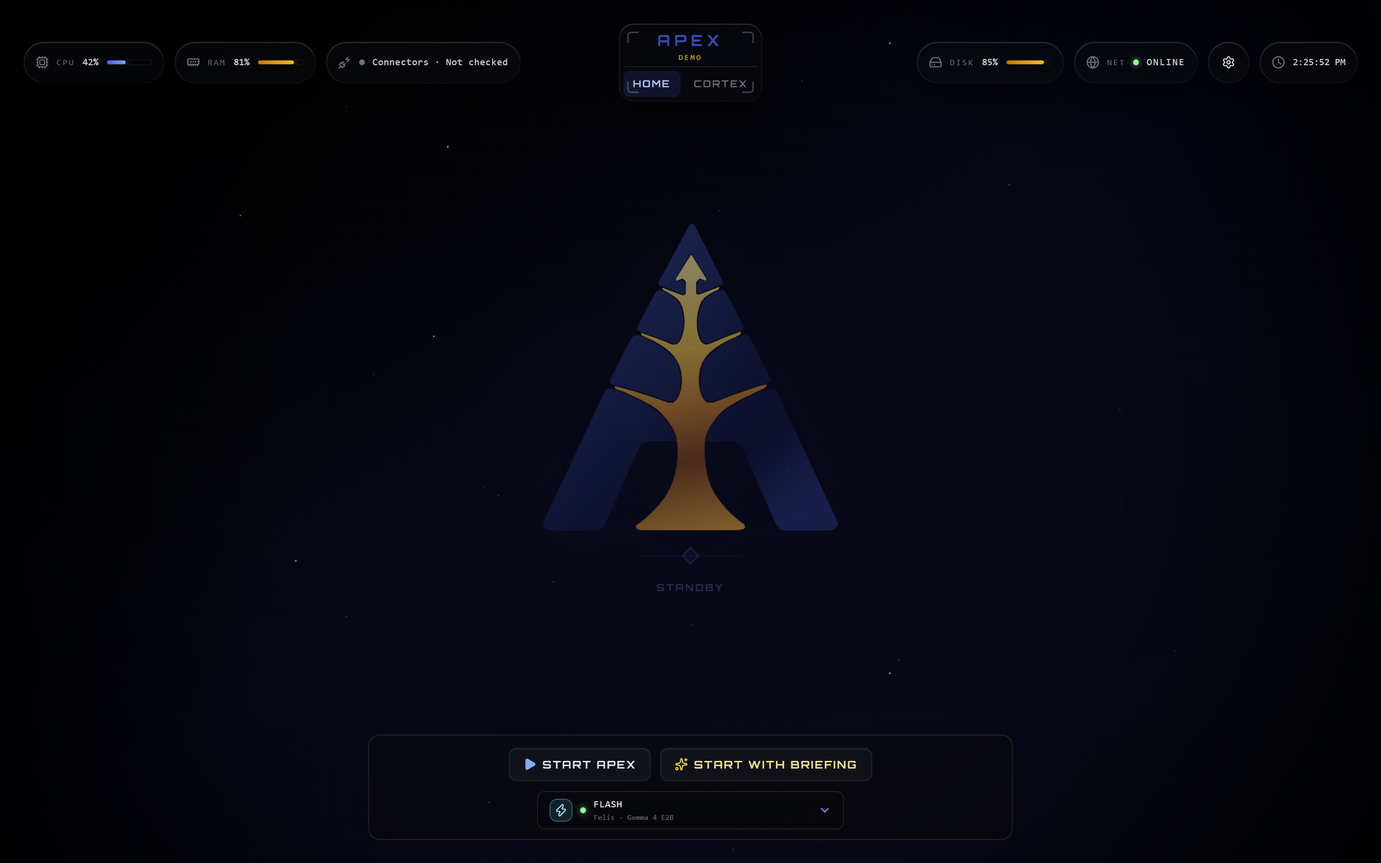
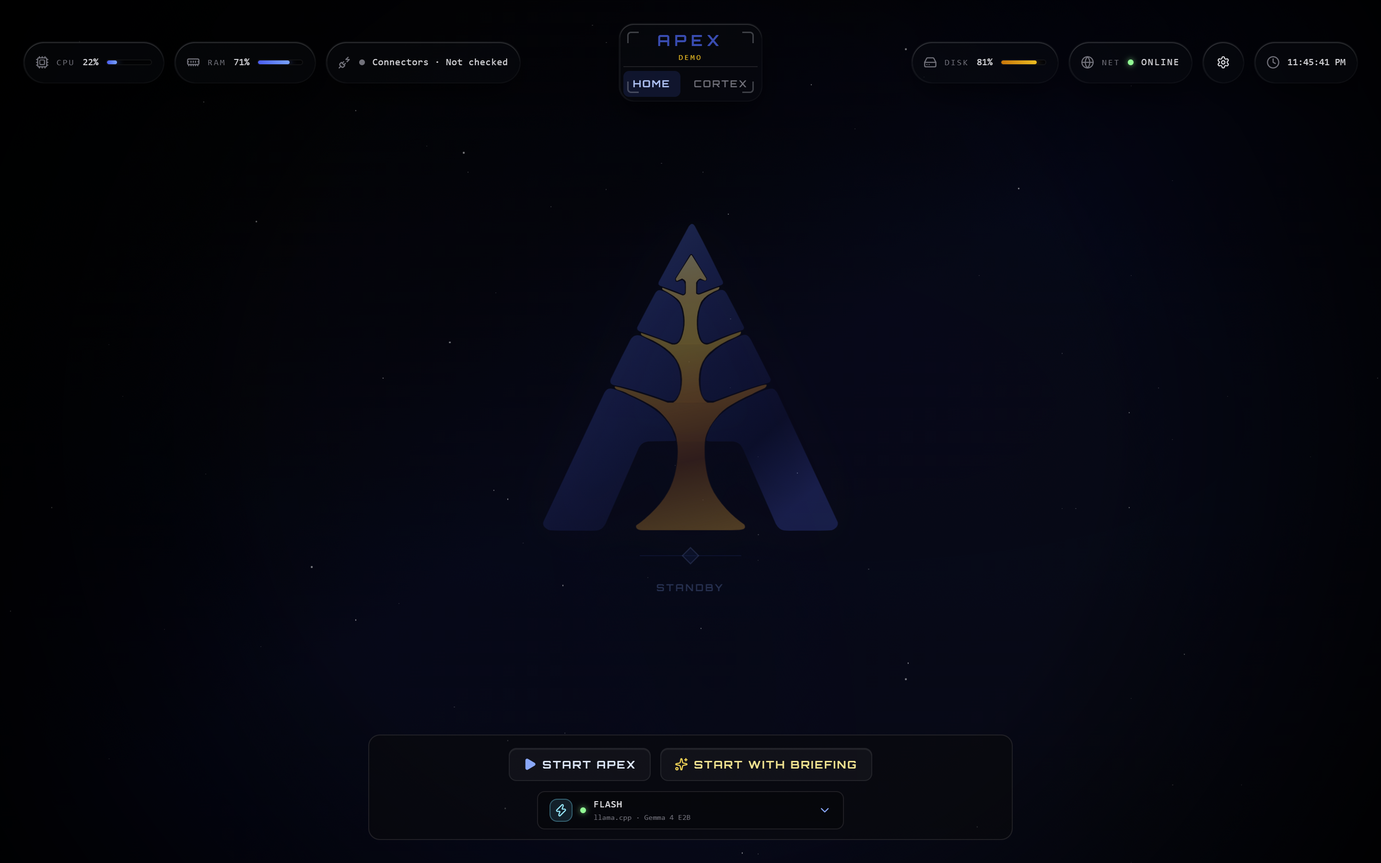
docs: reconcile documentation, changelog, and assets for v2.0.0-beta.2 release (#430)
Reconcile documentation, update HUD screenshots, finalize the roadmap and changelog, and bump the project version to 2.0.0b2 for the v2.0.0-beta.2 release.

diff --git a/tests/test_documentation.py b/tests/test_documentation.py
@@ -8,6 +8,7 @@ from scripts.check_docs import (
     check_agent_profiles,
     check_api_contract_version,
     check_default_briefing_provider,
+    check_frontend_owner_names,
     check_links,
     check_schema_versions,
     duplicate_route_headings,
@@ -147,6 +148,29 @@ class DocumentationCheckerTests(unittest.TestCase):
         reasons = {issue.reason for issue in issues}
         self.assertIn("obsolete Ollama briefing provider is documented", reasons)
         self.assertIn("briefing diagram omits a supported synthesis path", reasons)
+
+    def test_frontend_owner_names_reports_missing_cortex_runs(self) -> None:
+        root = Path("virtual-frontend").resolve()
+        source = root / "frontend" / "README.md"
+        contents = {source: "| `useCortex` | Browser conversation |\n"}
+        issues = check_frontend_owner_names(root, contents=contents)
+
+        self.assertEqual(len(issues), 1)
+        self.assertEqual(issues[0].target, "useCortexRuns")
+        self.assertIn("current Cortex runs owner is missing", issues[0].reason)
+
+    def test_frontend_owner_names_accepts_valid_current_owners(self) -> None:
+        root = Path("virtual-frontend").resolve()
+        source = root / "frontend" / "README.md"
+        contents = {
+            source: (
+                "| `useCortex` | Browser conversation |\n"
+                "| `useCortexRuns` | Recent runs |\n"
+            )
+        }
+        issues = check_frontend_owner_names(root, contents=contents)
+        self.assertEqual(issues, [])
+
 
 if __name__ == "__main__":
     unittest.main()

diff --git a/scripts/check_docs.py b/scripts/check_docs.py
@@ -417,10 +417,17 @@ def check_release_version(root: Path) -> list[DocumentationIssue]:
     ]
 
 
-def check_frontend_owner_names(root: Path) -> list[DocumentationIssue]:
+def check_frontend_owner_names(
+    root: Path,
+    contents: Mapping[Path, str] | None = None,
+) -> list[DocumentationIssue]:
     """Keep the frontend state-ownership table on current hook names."""
     frontend_readme = root / "frontend" / "README.md"
-    text = frontend_readme.read_text(encoding="utf-8")
+    text = (
+        contents.get(frontend_readme, "")
+        if contents is not None
+        else frontend_readme.read_text(encoding="utf-8")
+    )
     issues: list[DocumentationIssue] = []
     if "useApexAssistant" in text:
         issues.append(
@@ -440,7 +447,17 @@ def check_frontend_owner_names(root: Path) -> list[DocumentationIssue]:
                 "current Cortex owner is missing",
             )
         )
+    if "useCortexRuns" not in text:
+        issues.append(
+            DocumentationIssue(
+                frontend_readme,
+                1,
+                "useCortexRuns",
+                "current Cortex runs owner is missing",
+            )
+        )
     return issues
+
 
 
 PROVIDER_DISPLAY_NAMES: dict[str, str] = {

diff --git a/CHANGELOG.md b/CHANGELOG.md
@@ -2,6 +2,63 @@
 
 ---
 
+## v2.0.0-beta.2 - Cortex: Bounded Runs & Live Activity
+
+**Released:** September 5, 2026
+
+This release consolidates cloud and local models under a single Apex Agent, introduces bounded run execution with APEX-enforced limits, adds real-time Server-Sent Events streaming, and provides an Activity inspector in the HUD. Execution history is stored in a dedicated SQLite run ledger that records token metrics, step counters, stop reasons, and OpenTelemetry trace references without mixing run metadata into conversation storage. OpenTelemetry distributed tracing follows GenAI semantic conventions with zero-content privacy defaults, and new CLI commands allow managing and inspecting runs headlessly. Composer layouts now include dynamic scroll-fade indicators, and Grok and legacy sandbox providers have been retired.
+
+---
+
+### What's New
+
+- Consolidated the Agent roster from Panthera and Felis into a single **Apex Agent**. Model selection in the catalog now determines whether a request routes to a cloud API or a local llama.cpp or Ollama runtime.
+- Added bounded Cortex runs. APEX limits run duration, loop iterations, token consumption, retry counts, and cancellation, rather than relying on model self-termination alone.
+- Added a dedicated SQLite run ledger (`cortex_runs` and `cortex_run_steps`) that tracks run status, step sequences, tool executions, token metrics, stop reasons, and trace identifiers separately from conversation messages.
+- Added live Server-Sent Events (SSE) streaming for Cortex runs, publishing real-time updates for tokens, step lifecycle transitions, tool execution start and completion, and termination events.
+- Added an **Activity** tab to the Cortex Workspace to monitor active and recent runs, view step details and tool execution state, review resource counters, and cancel runs in flight.
+- Added `apex runs` CLI subcommands (`list`, `show`, `cancel`) for viewing and managing runs without opening the HUD.
+- Added failure-isolated OpenTelemetry distributed tracing conforming to GenAI semantic conventions. By default, prompt content and completions are excluded from span attributes to ensure zero-content privacy.
+- Added dynamic scroll fade masks to the HUD composer and scroll containers, fading card text only when additional content remains below the fold.
+- Retired Grok, SpaceXAI, and legacy sandbox/free-tier providers.
+
+### Architecture Changes
+
+- Unified model routing under `core/agent/loop.py` and `core/agent/model_catalog.py`, replacing multi-agent specs with single-agent configuration.
+- Added `core/runs/` (`models.py`, `service.py`, `store.py`, `coordinator.py`, `events.py`) to manage run persistence, concurrency gating, step lifecycle, and live SSE event broadcasting.
+- Implemented native provider streaming across Gemini (`google-genai`), OpenRouter (`openai`), Ollama, and llama.cpp runtimes.
+- Added `core/tracing/` (`service.py`, `spans.py`) for OpenTelemetry tracer initialization, span generation, and error-handling isolation.
+- Settings schema version bumped to `17` with unified `ask_apex.apex` settings.
+
+### API Changes
+
+- Added `/api/v1/cortex/runs` endpoints:
+  - `GET /api/v1/cortex/runs`: List past and active runs with optional status and pagination filters.
+  - `GET /api/v1/cortex/runs/{run_id}`: Retrieve full execution details, step history, and tool records for a run.
+  - `GET /api/v1/cortex/runs/{run_id}/events`: Stream real-time SSE execution events for an active run.
+  - `POST /api/v1/cortex/runs/{run_id}/cancel`: Cancel an active run in progress.
+- `POST /api/v1/cortex/query` now supports run coordinator execution, streaming response delegation, and run ID tracking.
+- Replaced `/api/v1/agents` multi-agent payload with singular Apex Agent availability and model catalog.
+- Settings schema updated to version `17`.
+
+### Frontend Changes
+
+- Added `CortexActivity.tsx` and `useCortexRuns.ts` for real-time run telemetry inspection, active step tracking, and cancellation controls.
+- Added `CortexActiveRunStrip.tsx` to display in-thread run status and streaming progress.
+- Added `ScrollFadeContainer.tsx` and `useScrollFadeMask.ts` for dynamic scroll-fade masking.
+- Simplified `ModelSelector.tsx`, `HomeModelSelector.tsx`, and `SettingsPanel.tsx` to reflect the singular Apex Agent model architecture.
+- Aligned Cortex visual theme tokens and run status colors with the APEX design system.
+
+### Documentation Updates
+
+- Documented run limits, timeout settings, and OpenTelemetry configuration options in `.env.example` and `docs/configuration.md`.
+- Documented bounded run architecture, SSE event contracts, and zero-content tracing guarantees in `docs/architecture.md`, `docs/privacy.md`, and `docs/api.md`.
+- Added `apex runs` CLI usage to `docs/cli.md`.
+- Recorded architectural decisions for SSE streaming and OpenTelemetry GenAI tracing in `docs/decisions.md`.
+- Refreshed interface screenshots in `docs/assets/` for Cortex, Home, and Standby views.
+
+---
+
 ## v2.0.0-beta.1 - Cortex: Persistent Context, World Model & Retrieval
 
 **Released:** August 20, 2026

diff --git a/docs/roadmap.md b/docs/roadmap.md
@@ -9,10 +9,10 @@
 ## Current Focus
 
 **Current Phase:** [Phase V: APEX 2.0 Beta](#phase-v-apex-20-beta)
-**Active Milestone:** [v2.0.0-beta.2 - Cortex: Bounded Runs & Live Activity](#v200-beta2---cortex-bounded-runs--live-activity)
+**Active Milestone:** [v2.0.0-beta.3 - Trusted Context & Review](#v200-beta3---trusted-context--review)
 **Current Direction:** [APEX 2.0 Direction](#apex-20-direction)
 
-**Next Milestone:** [v2.0.0-beta.3 - Trusted Context & Review](#v200-beta3---trusted-context--review)
+**Next Milestone:** [v2.0.0-beta.4 - External Activity Inbox](#v200-beta4---external-activity-inbox)
 
 ### Navigation
 
@@ -440,34 +440,16 @@ Establish the APEX 2.0 foundation with persistent conversations, personal contex
 
 ## v2.0.0-beta.2 - Cortex: Bounded Runs & Live Activity
 
-**Status:** In Progress
+**Status:** Complete
 
 **Objective:**
-Let Apex Agent carry an APEX request through several visible, controlled steps without turning Cortex into a general autonomous Agent platform.
-
-A run can retrieve relevant context, reason, call approved tools, propose or complete allowed actions, check the result, and stop when it has enough evidence to finish.
-
-APEX, rather than the model alone, should set the limits for iterations, elapsed time, token use, retries, cancellation, and failure handling.
-
-Cortex should gain an APEX-owned streaming path for response text, tool activity, action proposals, runtime measurements, completion, and errors. The assistant-ui frontend can display that stream without owning the Cortex runtime.
-
-APEX should keep a durable run record with the selected model, provider, runtime, limits, counters, stop reason, completion evidence, and trace reference. Message text should remain in conversation storage rather than being copied into the run ledger.
-
-Detailed tracing should use standard OpenTelemetry output and may be viewed through an optional compatible tool such as Phoenix. APEX should not build its own tracing or evaluation platform.
-
-The Cortex Activity view should show active and recent runs, tool and action activity, cancellation controls, model state, local inference state, context use, and the resource limits that affect APEX. It should reuse existing runtime and operating-system information rather than becoming a full process monitor.
-
-Provider-supported generation controls, structured output, usage reporting, and runtime measurements should be capability-aware. APEX should not pretend every model supports the same settings or reports the same data.
-
-The CLI should be able to start and follow a run, cancel it, inspect completion evidence, and reference the related trace.
-
-The new measurements may also be used to tune existing llama.cpp settings for the current hardware. This should remain local runtime calibration rather than becoming a general benchmarking platform.
+Unify models and runtimes under a single Apex Agent, and introduce bounded execution with APEX-enforced limits, a durable run ledger, live event streaming, an in-HUD activity inspector, OpenTelemetry GenAI tracing, and CLI run controls.
 
 ---
 
 ## v2.0.0-beta.3 - Trusted Context & Review
 
-**Status:** Planned
+**Status:** In Progress
 
 **Objective:**
 Make the context introduced in beta.1 easier to trust, correct, and understand before APEX begins accepting larger amounts of information from outside tools.
@@ -796,4 +778,4 @@ The local-first model remains the default. APEX should continue to work without 
 APEX is currently in **Phase V: APEX 2.0 Beta**.
 
 **Active milestone:**
-[v2.0.0-beta.2 - Cortex: Bounded Runs & Live Activity](#v200-beta2---cortex-bounded-runs--live-activity)
+[v2.0.0-beta.3 - Trusted Context & Review](#v200-beta3---trusted-context--review)

diff --git a/docs/architecture.md b/docs/architecture.md
@@ -34,6 +34,19 @@ Write-capable tools create approval-gated action proposals. New proposals use `a
 
 APEX permits one local inference execution across Ollama and llama.cpp. The coordinator validates reachability, resident models, installed aliases, and resource gates before loading. The selected model’s context and reasoning controls apply on the next relevant request; unloading remains provider-neutral.
 
+## Bounded run coordination and live activity
+
+Cortex runs execute asynchronously through the `CortexRunCoordinator`. A run carries one request through bounded model turns, tool execution, and action proposals:
+
+- **Admission and concurrency:** A thread pool bounds active runs (`max_concurrent_runs`, default 2). The coordinator enforces one active run per conversation, returning `409` on overlap and `429` on pool saturation. Identical turn requests matching an existing `agent_message_id` return the existing run without consuming a slot.
+- **Durable run ledger:** SQLite records run metadata in the `cortex_runs` table partitioned by `production` and `sandbox`. Records capture limits, token totals, turn/tool counts, timings, stop reasons, and completion evidence. Message text stays in conversation persistence rather than being duplicated in the ledger. On startup, unfinished runs are safely finalized as `interrupted`.
+- **Live streaming:** Process-local Server-Sent Events stream live status, deltas, tool activity, and runtime measurements. Streams support reconnect replay from bounded in-memory buffers; disconnecting a client does not cancel the underlying run.
+- **Cooperative cancellation:** Active runs poll for cancellation at turn and tool boundaries, writing a cancellation marker and finalizing as `cancelled`.
+
+## Distributed tracing
+
+When configured, APEX exports failure-isolated distributed traces using OpenTelemetry GenAI semantic conventions. Tracing covers the root run span (`invoke_agent`), model provider calls, and tool execution. Spans record model identifiers, tokens, counters, and timings, while preserving a zero-content privacy guarantee that omits prompt text, answers, and raw exceptions.
+
 ## Briefing routes
 
 Interactive selection never changes briefing execution. Focused uses OpenRouter DeepSeek V4 Flash with High reasoning, Flash uses the fixed Gemma E2B llama.cpp route at 16K with reasoning disabled, and Structured is deterministic. Fallback is Focused, Flash, then Structured.

diff --git a/docs/agent-guidance/frontend.md b/docs/agent-guidance/frontend.md
@@ -1,7 +1,7 @@
 # Frontend Engineering Guidance
 
 - Keep React components focused on presentation and interaction; place reusable state transitions, parsing, and effects in established hooks or utilities.
-- Use `useApexData()` for boot configuration and reminders. Use focused hooks for their respective concerns instead of adding to `useApexData()`: `useAppActivation()` for standby/activated lifecycle, `usePreflight()` for preflight warning/blocker dialog flow, `useTelemetrySnapshot()` for on-demand telemetry refresh, `useBriefingPipeline()` for trigger/status polling and briefing/digest state, `useCortex()` for Agent status, verification, polling, and local-model lifecycle, `ApexAssistantRuntime` for conversation/thread state and one-turn submission, `useActions()` for Cortex action list, audit detail, and versioned controls, `useToolCatalog()` for catalog/profile/selection state, and `useToolPreflight()` for next-request token estimates.
+- Use `useApexData()` for boot configuration and reminders. Use focused hooks for their respective concerns instead of adding to `useApexData()`: `useAppActivation()` for standby/activated lifecycle, `usePreflight()` for preflight warning/blocker dialog flow, `useTelemetrySnapshot()` for on-demand telemetry refresh, `useBriefingPipeline()` for trigger/status polling and briefing/digest state, `useCortex()` for Agent status, verification, polling, and local-model lifecycle, `useCortexRuns()` for recent runs, active-run polling, and cancellation, `ApexAssistantRuntime` for conversation/thread state and one-turn submission, `useActions()` for Cortex action list, audit detail, and versioned controls, `useToolCatalog()` for catalog/profile/selection state, and `useToolPreflight()` for next-request token estimates.
 - Preserve deliberately independent data flows such as `useMarketData()` when their lifecycle and polling cadence are separate from the briefing pipeline. Do not force unrelated state into `useApexData()` or into a hook that owns a different concern.
 - Avoid duplicate fetch loops or competing sources of truth for the same backend resource.
 - Model loading, empty, error, disabled, demo, and stale states explicitly. Use local progress indicators when a local action is independent; use shared status when the underlying operation is global.

diff --git a/docs/decisions.md b/docs/decisions.md
@@ -198,6 +198,22 @@ Lazy Kokoro imports and warmup avoid idle memory and thread cost when it is not 
 
 **Trade-off.** The adapter needs focused conversion coverage whenever the pinned assistant-ui release changes, because its message and thread identifiers are not a stable public contract. The boundary is isolated in `frontend/src/components/ApexAssistantRuntime.tsx`. APEX does not expose assistant-ui cancellation, client-side tools, attachments, cloud storage, feedback, or automatic title generation. Empty threads are transient until their first accepted turn. Permanent deletion is an APEX-owned capability limited to archived conversations and exposed through the archived-only API route.
 
+### Stream live run activity over process-local Server-Sent Events
+
+**Decision.** Live run updates stream over process-local Server-Sent Events rather than WebSockets, polling, or database-backed message queues.
+
+**Why.** SSE provides unidirectional streaming over standard HTTP with reconnect replay through `Last-Event-ID`. In-memory ring buffers let clients reconnect after transient network glitches without writing intermediate delta events to SQLite. Client disconnections do not cancel active backend runs.
+
+**Trade-off.** Live events are process-local and lost on backend restart. Durable run state remains limited to the completed run ledger and conversation messages.
+
+### Adopt OpenTelemetry GenAI semantics without an internal tracing platform
+
+**Decision.** APEX exports distributed traces adhering to OpenTelemetry GenAI semantic conventions via standard OTLP HTTP rather than building an in-tree tracing UI or observability store.
+
+**Why.** Standard OTLP output lets operators connect standard evaluation or visualization tools (such as Arize Phoenix or OpenTelemetry collectors) when desired. Tracing is failure-isolated and has zero runtime overhead when disabled. Spans enforce a zero-content privacy guarantee that omits prompts, completions, and raw exceptions.
+
+**Trade-off.** Inspecting detailed traces requires running an external OTLP-compatible collector.
+
 ### Enforce one resident model and non-blocking admission
 
 **Decision.** APEX keeps one selected local model resident across Ollama and llama.cpp and rejects competing local execution rather than queueing it.

diff --git a/docs/configuration.md b/docs/configuration.md
@@ -34,6 +34,36 @@ Briefings are fixed routes, independent of the interactive model. Focused uses O
 
 Configure llama.cpp aliases with one preset per exposed context size. A tracked placeholder is [`docs/examples/llama-cpp-apex-local-models.preset.ini`](examples/llama-cpp-apex-local-models.preset.ini). Copy it to a machine-local path, replace GGUF placeholders, and keep that copy untracked. External launchers should use one preset at a time; managed mode uses the same aliases and resource gates.
 
+## Bounded run limits
+
+`config.json` sets execution ceilings for asynchronous Cortex runs:
+
+```json
+{
+  "cortex_runs": {
+    "max_concurrent_runs": 2,
+    "max_elapsed_seconds": 600,
+    "max_total_tokens": 128000,
+    "max_retries": 4,
+    "max_model_turns": 6,
+    "max_tool_calls": 10,
+    "event_replay_limit": 512
+  }
+}
+```
+
+`max_concurrent_runs` limits active execution slots before the API returns `429`. `event_replay_limit` sets the in-memory event buffer size per run for Server-Sent Events reconnects. The remaining fields define the immutable limit snapshot applied to each run.
+
+## OpenTelemetry GenAI tracing
+
+APEX can export distributed trace spans adhering to OpenTelemetry GenAI semantic conventions when an endpoint is configured in `.env`:
+
+- `OTEL_EXPORTER_OTLP_TRACES_ENDPOINT`: Destination URL for OTLP HTTP trace export (such as a local Arize Phoenix or OpenTelemetry collector).
+- `OTEL_EXPORTER_OTLP_TRACES_HEADERS` or `OTEL_EXPORTER_OTLP_HEADERS`: Optional comma-separated `key=value` headers.
+- `OTEL_SERVICE_NAME`: Service name attribute, defaulting to `apex`.
+
+When `OTEL_EXPORTER_OTLP_TRACES_ENDPOINT` is unset, tracing is disabled with zero runtime overhead. Trace spans include run identifiers, model names, token counts, and step durations; they never include prompt or answer text.
+
 ## Privacy and development modes
 
 Personal context is off by default for both runtimes. Sandbox mode is available only in `DEV_MODE`, uses a restricted non-personal tool allowlist, and stores conversation history in the sandbox partition. `DEMO_MODE` takes precedence for demo paths and does not contact configured providers.

diff --git a/README.md b/README.md
@@ -65,7 +65,7 @@ The HUD exposes connector health, CPU and memory use, active model state, briefi
 - **Safer model input:** Connectors produce structured results, and briefing models receive only selected facts marked as untrusted data.
 - **Three briefing modes:** Flash is the default local Gemma orientation, Focused is OpenRouter DeepSeek V4 Flash planning, and Structured is a model-free deterministic view.
 - **One local model at a time:** APEX avoids hidden local-inference queues and keeps model loading visible.
-- **Local storage:** SQLite keeps briefing history, the reminder cache and offline queue, the durable action ledger, and Cortex conversation trees with response metadata. Reloading APEX restores the active conversation branch and its per-conversation Agent/tool preferences.
+- **Local storage:** SQLite keeps briefing history, the reminder cache and offline queue, the durable action ledger, the bounded run ledger, and Cortex conversation trees with response metadata. Reloading APEX restores the active conversation branch and its per-conversation Agent/tool preferences.
 - **Visible failures:** Readiness checks, connector health, stable errors, run IDs, and preflight warnings make degraded states easier to understand.
 - **Credential isolation:** The backend receives credentials; the static server and browser receive a restricted child environment.
 
@@ -120,13 +120,14 @@ Demo mode bypasses live connectors and model calls, does not write briefing hist
 
 ## Use APEX without the HUD
 
-When the backend is already running, the included CLI can inspect APEX, run one Agent turn, generate a briefing, and review or resolve durable actions:
+When the backend is already running, the included CLI can inspect APEX, run one Agent turn, generate a briefing, inspect recent Cortex runs, and review or resolve durable actions:
 
 ```powershell
 uv run apex status
 uv run apex models
 uv run apex ask "What needs my attention?" --profile personal_ops
 uv run apex briefing --mode structured
+uv run apex runs list
 uv run apex actions list
 ```
 

diff --git a/docs/api.md b/docs/api.md
@@ -54,6 +54,11 @@ The included [`uv run apex`](cli.md) command is a thin loopback client for a foc
 | PATCH | `/api/v1/cortex/conversations/{conversation_id}` | Update one conversation |
 | DELETE | `/api/v1/cortex/conversations/{conversation_id}` | Permanently delete one archived conversation |
 | POST | `/api/v1/cortex/conversations/{conversation_id}/turns` | Run one durable Cortex turn |
+| POST | `/api/v1/cortex/conversations/{conversation_id}/runs` | Start one asynchronous bounded Cortex run |
+| GET | `/api/v1/cortex/runs` | List recent Cortex runs |
+| GET | `/api/v1/cortex/runs/{run_id}` | Read one Cortex run record |
+| POST | `/api/v1/cortex/runs/{run_id}/cancel` | Request cooperative run cancellation |
+| GET | `/api/v1/cortex/runs/{run_id}/events` | Stream live run activity as Server-Sent Events |
 | POST | `/api/v1/cortex/context/captures` | Propose a manual personal-context capture |
 | GET | `/api/v1/cortex/context` | List local personal-context records in the current partition |
 | GET | `/api/v1/cortex/context/{record_id}` | Inspect one record, its sources, history, and related records |
@@ -308,7 +313,7 @@ Archives one explicitly reviewed uncertain local row after the operator has insp
 { "id": "local:12" }
 ```
 
-## Apex Agents and local models
+## Apex Agent and local models
 
 ### GET `/api/v1/cortex/tool-catalog`
 
@@ -615,7 +620,7 @@ Cortex turns.
 `search_apex_docs` is a selected native read capability, not a public search
 endpoint. It refreshes only `README.md` and `docs/**/*.md` immediately before
 searching, then returns at most five excerpts with repository-relative source
-locations. The excerpts are untrusted tool output. Agents should cite a used
+locations. The excerpts are untrusted tool output. Apex Agent should cite a used
 excerpt as `path:Lstart-Lend`; it cannot alter system instructions or policy.
 
 ## Actions

diff --git a/docs/getting-started.md b/docs/getting-started.md
@@ -128,6 +128,7 @@ APEX can start without most provider credentials. Enable only the integrations y
 | Local models through llama.cpp | Optional external or APEX-managed llama.cpp router with model-based aliases |
 | Microsoft To Do | Public/native Entra application with delegated `Tasks.ReadWrite` |
 | MCP providers | Provider credential plus explicit runtime and preset enablement |
+| OpenTelemetry GenAI tracing | `OTEL_EXPORTER_OTLP_TRACES_ENDPOINT` in `.env` (optional headers or service name) |
 
 See [Configuration](configuration.md) for ownership, precedence, modes, model settings, and provider-specific boundaries.
 
@@ -169,7 +170,7 @@ uv run python scripts/smoke_llama_cpp.py --host http://127.0.0.1:8080 --model ge
 - **Start with Briefing** activates Home, refreshes telemetry, and generates a briefing with the selected mode.
 - Agent queries become available after activation when they are enabled in Settings.
 - Runtime Settings writes machine-local overrides to `config.local.json`.
-- Normal-mode briefing history is stored in `apex_memory.db`. APEX also keeps its Microsoft To Do reminder cache, offline queue, and action history there. Demo briefings are not persisted.
+- Normal-mode briefing history is stored in `apex_memory.db`. APEX also keeps its Microsoft To Do reminder cache, offline queue, durable action history, and bounded Cortex run ledger there. Demo briefings are not persisted.
 
 ## Troubleshooting
 

diff --git a/docs/privacy.md b/docs/privacy.md
@@ -1,6 +1,6 @@
 # Privacy
 
-APEX is local-first: durable settings, conversation history, retrieval data, context records, action evidence, and briefing history remain on the local machine unless a selected operation requires an enabled connector or model provider.
+APEX is local-first: durable settings, conversation history, retrieval data, context records, action evidence, the Cortex run ledger, and briefing history remain on the local machine unless a selected operation requires an enabled connector or model provider.
 
 ## Interactive models
 
@@ -15,6 +15,10 @@ Focused briefings use the fixed OpenRouter DeepSeek V4 Flash route with its priv
 ## Tools and actions
 
 APEX tools pass only the arguments required for the requested operation. Tool output is treated as untrusted model data. Write operations are approval-gated, create local action evidence, and are not replayed automatically after ambiguous outcomes.
+
+## Distributed tracing
+
+OpenTelemetry tracing is optional and disabled by default. When an operator configures an OTLP export endpoint in `.env`, trace spans are sent to that destination. Tracing adheres to GenAI semantic conventions and preserves a zero-content privacy guarantee: spans capture run metadata, model names, token counts, timings, and status, but never include prompt text, model answers, or raw exception payloads.
 
 ## Development and demo
 
